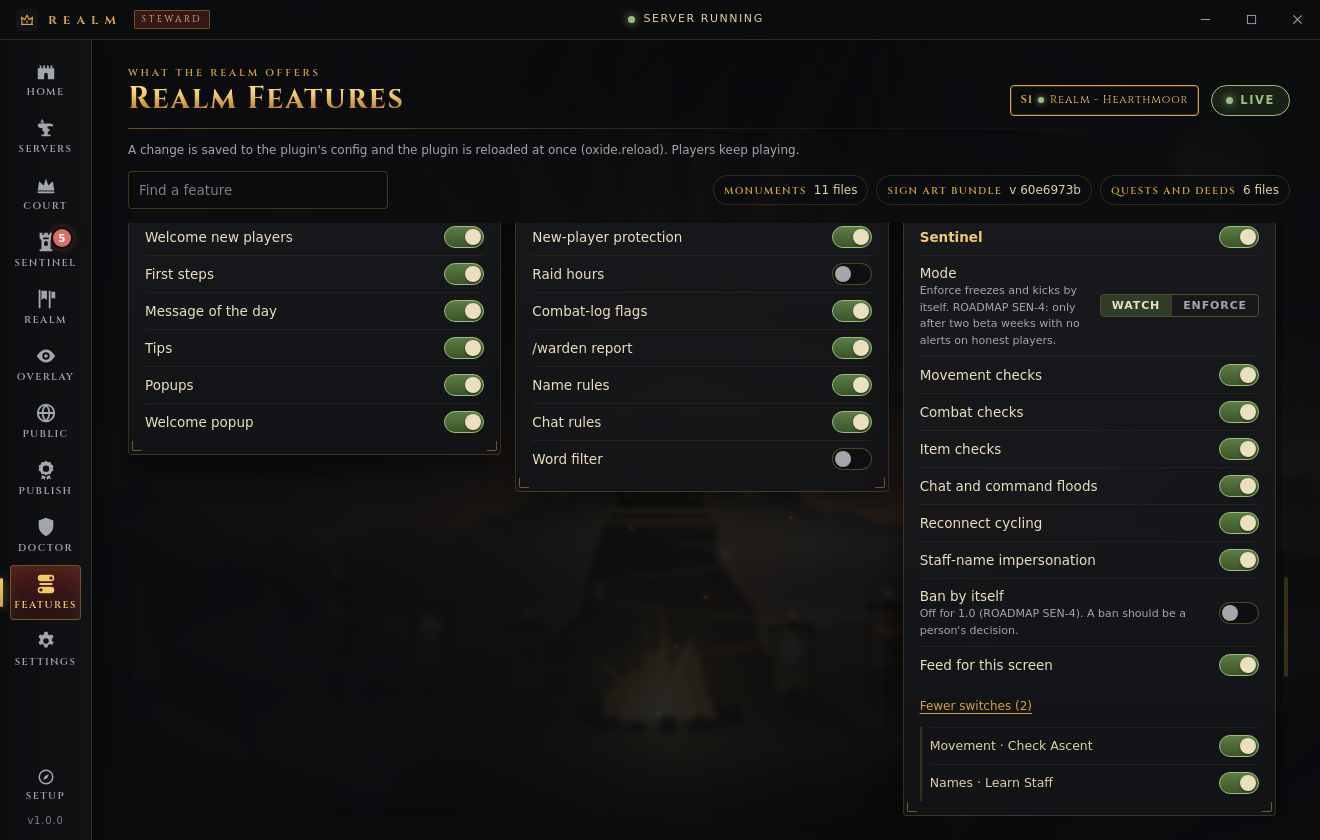
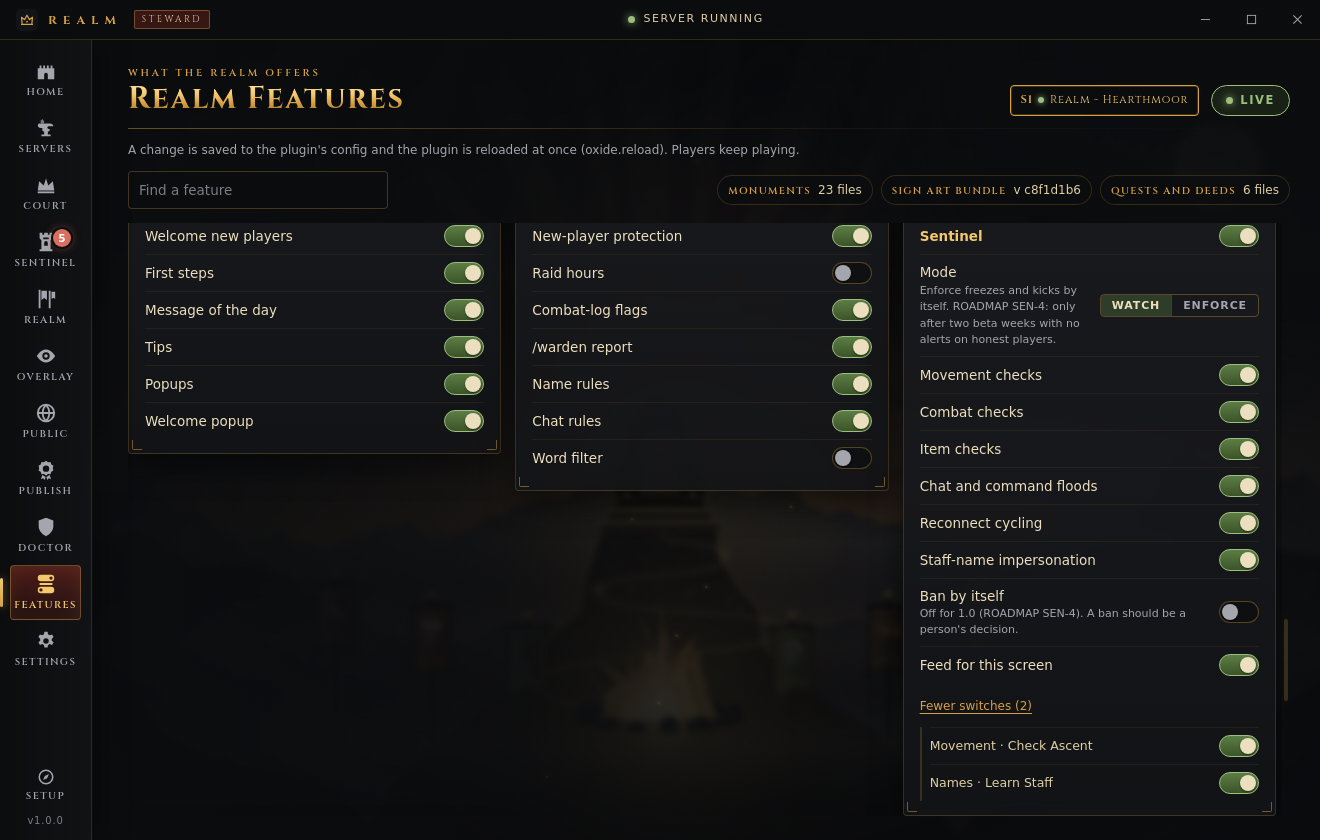
Steward docs: Sentinel, Realm features, news and updates, data files; court folds; screenshots
launcher/README.md documents the four new Steward screens and the plugin
data files Update plugins deploys, with UNVERIFIED items and their tests.
The Court's staff commands get one fold per plugin; the Sentinel's alert
text wraps to two lines. Screenshots regenerated under xvfb, plus
docs/img/steward-court-commands.png.

Claude-Session: https://claude.ai/code/session_01Lm9gt6Exmboj4zjYim7e89

diff --git a/launcher/renderer/sentinel.css b/launcher/renderer/sentinel.css
@@ -54,7 +54,8 @@
 .sn-alert-top b, .sn-sus-top b { flex: 1; min-width: 0; font-family: var(--serif); font-size: 15.5px; font-weight: 600; color: var(--parchment); overflow: hidden; text-overflow: ellipsis; white-space: nowrap; }
 .sn-kind { font-family: var(--font-display); font-size: 10px; letter-spacing: 0.14em; text-transform: uppercase; color: var(--gold); }
 .sn-score { font: 700 13px var(--font-mono); color: var(--parchment-2); }
-.sn-alert-detail { font-size: 12.5px; color: var(--text-2); overflow: hidden; text-overflow: ellipsis; white-space: nowrap; }
+.sn-alert-detail { font-size: 12.5px; color: var(--text-2); overflow: hidden; overflow-wrap: anywhere; display: -webkit-box; -webkit-box-orient: vertical; -webkit-line-clamp: 2; }
+.sn-alert > * { min-width: 0; max-width: 100%; }
 .sn-alert-meta { display: flex; justify-content: space-between; gap: 8px; font-size: 11px; color: var(--text-muted); }
 .sn-resp { text-transform: uppercase; letter-spacing: 0.08em; font-size: 10.5px; color: var(--text-2); }
 .sn-alert.would .sn-resp { color: var(--warn); }

diff --git a/launcher/renderer/court.css b/launcher/renderer/court.css
@@ -53,7 +53,8 @@
 
 .court-plugins .mini-h { margin: 10px 0 4px; }
 .court-plug-fold { border-bottom: 1px solid rgba(214, 160, 67, 0.12); }
-.court-plug-fold > summary { cursor: pointer; display: flex; align-items: center; gap: 8px; padding: 2px 0; list-style: none; }
+.court-plug-fold > summary { cursor: pointer; display: flex; align-items: center; gap: 8px; padding: 8px 0; list-style: none; font-family: var(--serif); font-size: 15px; font-weight: 600; color: var(--parchment); }
+.court-plug-fold > summary:hover { color: var(--gold); }
 .court-plug-fold > summary::-webkit-details-marker { display: none; }
 .court-plug-fold > summary::before { content: '\25B8'; color: var(--gold); font-size: 11px; transition: transform 0.15s; }
 .court-plug-fold[open] > summary::before { transform: rotate(90deg); }

diff --git a/launcher/lib/moderation.js b/launcher/lib/moderation.js
@@ -127,7 +127,7 @@ const BUILD = {
   // Oxide's own console command (docs/oxide-rok-api.md section 6.5, src/ReignOfKingsCore.cs:88-103):
   // re-reads the plugin, its config (oxide/config/<Plugin>.json) and its data. Used after Steward
   // changes a plugin's config or data files. UNVERIFIED over the admin console socket on the real
-  // server (docs/realm-features.md, test F1).
+  // server (launcher/README.md, Not verified, test F1).
   reload: ({ plugin }) => {
     const p = pluginName(plugin);
     return { command: `/oxide.reload ${p}`, summary: `Reload ${p}` };

diff --git a/launcher/renderer/court.js b/launcher/renderer/court.js
@@ -442,7 +442,7 @@
       if (!folds.has(plugin)) {
         const f = el('details', 'court-plug-fold');
         if (folds.size < 2) f.open = true;
-        const sum = el('summary', 'mini-h', plugin);
+        const sum = el('summary', 'court-plug-sum', plugin);
         sum.appendChild(el('span', 'court-plug-count', ''));
         f.appendChild(sum);
         ui.plugins.appendChild(f);

diff --git a/launcher/README.md b/launcher/README.md
@@ -40,16 +40,18 @@ The **folder rules** are the same as `RealmCommon.ps1`. A folder must be a full 
 | Screen | What is on it |
 |---|---|
 | **Home** | PLAY (Steam only), Server 1's direct-connect address, the "Your realm at a glance" strip (servers up, players, last crash, last backup, next restart), realm status, the king, the latest Chronicle events and the news. |
-| **Servers** | A strip with one card per server (I to IV) and **Add server**. For the selected server: Start, Stop, Restart, Force stop, the live console and a command box. **Server settings**: name, max players (up to 120), seconds between joins, game and query ports, restart after a crash, back up before every restart, restart every day at a set time. **Upkeep**: Update plugins (all servers), Back up world, Restore backup, Undo Oxide. |
-| **Court** | Live moderation over the game's admin console for the selected server: those present (with Steam IDs from the RealmCourt plugin), kick, mute, ban, unban, ban list, notice, popup, chat, whitelist on/off, save world, the live hall (chat, log, errors), in-game admin commands of the Realm plugins to copy, and the Court rolls written to `%APPDATA%\Realm\court\court-log.jsonl`. |
+| **Servers** | A strip with one card per server (I to IV) and **Add server**. For the selected server: Start, Stop, Restart, Force stop, the live console and a command box. **Server settings**: name, max players (up to 120), seconds between joins, game and query ports, restart after a crash, back up before every restart, restart every day at a set time. **Upkeep**: Update plugins (all servers; also the plugin data files, see [Plugin data files](#plugin-data-files)), Back up world, Restore backup, Undo Oxide. |
+| **Court** | Live moderation over the game's admin console for the selected server: those present (with Steam IDs from the RealmCourt plugin), kick, mute, ban, unban, ban list, notice, popup, chat, whitelist on/off, save world, the live hall (chat, log, errors), in-game staff commands of the Realm plugins to fill in and copy (one fold per plugin: houses, crown, contracts, laws and court, the Sentinel, monuments, signs, the Ironbreaker, quests, travel and kits, the Arena, Dominion, the living world, the guilds, heraldry and the council), and the Court rolls written to `%APPDATA%\Realm\court\court-log.jsonl`. |
 | **Realm** | The throne, the council, open claims and decrees, and every house with its vassals. It follows Server 1's Chronicle. |
 | **Overlay** | The OBS address `http://127.0.0.1:8787/overlay`, a live preview and the folder the Chronicle reads (Server 1). |
 | **Public** | Go Public for the chosen server: network mode, Windows Firewall rules, router ports, a self-check. |
-| **Publish** | The signing key and the signed server list (`servers.json`) for the player app. |
+| **Sentinel** | RealmSentinel's live alerts, suspects ranked by score and each one's evidence, with Kick and Ban over the admin console and the `/sentinel` commands filled in to copy. A badge on the rail counts unseen alerts. See [The Sentinel screen](#the-sentinel-screen). |
+| **Publish** | Three tabs, all signed with the same key: the server list (`servers.json`), **News** (`news.json`) and **Player update** (`update.json`). See [Publish news and player updates](#publish-news-and-player-updates). |
 | **Doctor** | The Connection Doctor ([`docs/connection-doctor.md`](../docs/connection-doctor.md)): one verdict and one fix for "I can't connect", 11 read-only checks, the game and server logs with known problems highlighted, a paste box for the game's popup text, and a redacted **Copy report**. |
+| **Features** | Realm features: each plugin's main switches, saved to `oxide\config\<Plugin>.json` with a backup and reloaded over the admin console. See [Realm features](#realm-features). |
 | **Settings** | Server 1's folder, which server program to run (`Server.exe` or `ROK.exe -batchmode -nographics -silentcrash`; it applies to every server), the Steam server folder, the Discord link and the news, and the opt-in **Discord herald** that posts new Chronicle events to a webhook ([`docs/discord-herald.md`](../docs/discord-herald.md)). |
 
-Screenshots: [setup](../docs/img/steward-setup.png), [setup in progress](../docs/img/steward-setup-progress.png), [setup done](../docs/img/steward-setup-done.png), [server](../docs/img/steward-server.png), [crash restart](../docs/img/steward-server-crash.png), [two servers](../docs/img/steward-fleet.png), [restore](../docs/img/steward-server-restore.png), [home](../docs/img/steward-home.png), [realm](../docs/img/steward-realm.png), [overlay](../docs/img/steward-overlay.png), [go public](../docs/img/steward-public.png), [publish](../docs/img/steward-publish.png), [settings](../docs/img/steward-settings.png).
+Screenshots: [setup](../docs/img/steward-setup.png), [setup in progress](../docs/img/steward-setup-progress.png), [setup done](../docs/img/steward-setup-done.png), [server](../docs/img/steward-server.png), [crash restart](../docs/img/steward-server-crash.png), [two servers](../docs/img/steward-fleet.png), [restore](../docs/img/steward-server-restore.png), [home](../docs/img/steward-home.png), [realm](../docs/img/steward-realm.png), [overlay](../docs/img/steward-overlay.png), [go public](../docs/img/steward-public.png), [publish](../docs/img/steward-publish.png), [settings](../docs/img/steward-settings.png), [Realm features](../docs/img/steward-features.png), [Realm features live](../docs/img/steward-features-live.png), [Sentinel](../docs/img/steward-sentinel.png), [Sentinel kick](../docs/img/steward-sentinel-kick.png), [Court staff commands](../docs/img/steward-court-commands.png), [publish news](../docs/img/steward-publish-news.png), [publish update](../docs/img/steward-publish-update.png).
 
 ### Up to four servers
 
@@ -145,6 +147,48 @@ The `servers.json` format is a JSON envelope:
 ```
 
 The list itself is `{schema: 1, realm, seq, issued, expires, servers: [{id, name, region, address, port, queryPort, maxPlayers, chronicleUrl?}], links?}`. `lib/shared/manifest.js` holds the schema.
+
+### Publish news and player updates
+
+The **News** and **Player update** tabs on Publish write `news.json` and `update.json` into the same folder as `servers.json`, signed with the same key (`lib/news.js` `buildNews`/`signNews`, `lib/updater.js` `buildUpdate`/`signUpdate`; the screen's logic is `lib/publish-feeds.js`). The formats and how the player app reads them are in [`docs/player-launcher.md`](../docs/player-launcher.md). **Nothing is uploaded**: put both files next to `servers.json` where you host it.
+
+- **News.** Up to 60 items: an announcement, a Chronicle highlight (**From the Chronicle** picks a recent entry) or "What's new in the realm" (a new sculpture, a law, an event, with an optional start time). Pinned items come first. Items stay in a draft (`%APPDATA%\Realm\publish\feeds.json`) until you press **Sign & write news.json**. The "As players see it" panel shows the two lists the player app shows.
+- **Player update.** **Choose installer** picks `Realm-Setup-<version>.exe` from the release folder. Steward reads its size and SHA-256 from the file and, when the folder has `SHA256SUMS.txt` (`npm run release`), refuses a file that does not match its line. Fill in the https download address (upload the installer there yourself), the patch notes, an optional minimum version (older apps must update) and the hotfix tick, then **Sign & write update.json**.
+- Each file carries a version number that only goes up: one more than the highest of Steward's own counter and the file already in the folder signed with this key. A lost profile or a second PC therefore cannot publish a file players would refuse as a rollback.
+- Before a file is written it is checked with the public key exactly as the player app checks it, then written atomically. A damaged draft file is never overwritten: the tab says so, and writing stops until you move it away.
+
+### The Sentinel screen
+
+The Sentinel screen reads what RealmSentinel writes ([`plugins/docs/RealmSentinel.md`](../plugins/docs/RealmSentinel.md), "The Steward feed"): `oxide\data\RealmSentinelFeed.json` (alerts, suspects, mode, online and frozen counts) and the evidence log `oxide\logs\RealmSentinel\realmsentinel_evidence-<date>.txt`. It never writes to them. Steward looks for changes every few seconds; a new alert raises a toast and counts on the rail badge until **Mark all seen**.
+
+- **Live alerts**, newest first, with the kind, the score and what the plugin did or would do (`would freeze`, `would kick` in watch mode).
+- **Suspects** ranked by score, with a bar against the alert, freeze, kick and ban scores from the plugin's config.
+- **Evidence** for the chosen player: every finding from the daily logs, newest first, with position and ping.
+- **Kick** and **Ban** are the game's own `/kick` and `/ban` over the admin console, with the reason `Sentinel: <kind>`. They go through the Court, so they land in the Court rolls. Ban asks first. **Reload plugin** sends `/oxide.reload RealmSentinel`.
+- **Report**, **Freeze 15 min**, **Unfreeze**, **Clear score** and **Sentinel ban** copy the `/sentinel` command, with the player's name quoted, for an admin to paste in game. Oxide runs a plugin's chat command only for a player, and the admin console is not one, so Steward cannot send these itself.
+
+### Realm features
+
+The **Features** screen lists every Realm plugin with its main switches (`lib/features.js` `CATALOGUE`). A test checks each switch against the plugin's `PluginConfig`, and that every plugin with a config is listed. Turning a switch:
+
+1. reads `oxide\config\<Plugin>.json` and refuses if it does not parse (the plugin then runs on its defaults; fix or delete the file);
+2. changes exactly the bytes of that one value. Everything else (64-bit Steam IDs, number formats, order) stays byte for byte, and the result is parsed again and must differ in that one value only;
+3. copies the old file to `<server>\_realm-backups\config-<time>\` and writes the new one through a temporary file. If the file changed on disk meanwhile, nothing is written;
+4. on a running server with the live console, sends `/oxide.reload <Plugin>` so the change applies at once. A stopped server picks it up at its next start. Each change is written to the Court rolls.
+
+A dangerous switch (the Sentinel's enforce mode, ban by itself) asks first. A master switch (for example "Quests" or "Guilds") dims the plugin's other switches while it is off. **More switches** lists every other true/false value in the file. A plugin that has not written its config yet says "no config yet: start the server once".
+
+### Plugin data files
+
+Some plugins read files Realm ships rather than files they write. **Update plugins** (and the setup step "Raise the banners") copies them before the plugins:
+
+| Files | To | Read by |
+|---|---|---|
+| `art/sculptures/*.json` | `oxide\data\RealmSculptor\` | RealmSculptor (monuments) |
+| `art/paintings/RealmPainterArt.json` | `oxide\data\` | RealmPainter (sign art; the Features screen shows its version) |
+| `plugins/docs/RealmQuests/content/*.json` | `oxide\data\RealmQuests\` | RealmQuests (tasks, story, deeds, places) |
+
+Every source file must parse as a JSON object first; a damaged or truncated one is not copied and the server's copy is left as it is. A changed file on the server is saved to `_realm-backups\data-<time>\` before it is replaced. Files you added yourself (your own sculpture) are listed but never touched. Each copy is written to `<name>.realm-part` and renamed into place. A running server reloads the plugins whose data changed over the admin console. In the installer the files are under `resources\realm-data` (`build/steward.json` `extraResources`). The Features screen shows each set and whether it still needs deploying.
 
 ---
 
@@ -289,6 +333,19 @@ Everything Windows-specific has only been reasoned about here, not run:
 - tray icons and notifications;
 - whether quick join survives the EAC bootstrapper;
 - whether four real servers coexist;
-- play at 120 players.
+- play at 120 players;
+- the Steward screens for the server plugins, listed below.
+
+**UNVERIFIED on the real server**, each with its test:
+
+| # | What | Test |
+|---|---|---|
+| F1 | `/oxide.reload <Plugin>` sent over the admin console reloads the plugin. | Start Server 1 from Steward with the live console. On Features, turn RealmEvents "Truce of the Realm" off. The live hall shows `Unloaded plugin RealmEvents` then `Loaded plugin RealmEvents`, and `oxide\config\RealmEvents.json` has `"EnableTruce": false`. |
+| F2 | A plugin keeps a config Steward edited (it does not write its old value back). | After F1, restart the server. The switch is still off on Features and in the file. |
+| S1 | RealmSentinel writes `RealmSentinelFeed.json` and the evidence log in the documented shape. | With the Sentinel in watch mode, a second account without admin rights floods chat (more than 12 lines in 10 s, six times over, so its score passes `AlertScore` 20 at 4 points a flood). Within 10 s the Sentinel screen lists the alert, and the account's evidence shows the line. |
+| S2 | Kick and Ban from the Sentinel screen. | Kick the test account from its evidence. It is disconnected with the reason `Sentinel: <kind>`, and the Court rolls show the kick. |
+| D1 | RealmSculptor, RealmPainter and RealmQuests read the deployed data. | Update plugins, then in game as an admin: `/sculpt list` lists the sculptures, `/paint status` shows the art version from the Features chip, `/quest admin status` shows six content files ok. |
+| C1 | The copied staff commands work as typed. | From the Court, copy `/arena admin status`, `/quest admin status` and `/world admin status` and paste them in game as an admin. Each answers. |
+| P1 | The player app accepts the published `news.json` and `update.json`. | Host both next to `servers.json`. A player app shows the news on Play and offers the update, and refuses it after one byte of the hosted installer is changed. |
 
 The tests to run on the owner's PC are listed in [`docs/going-public.md`](../docs/going-public.md) and `docs/seamless-design.md` §7.
